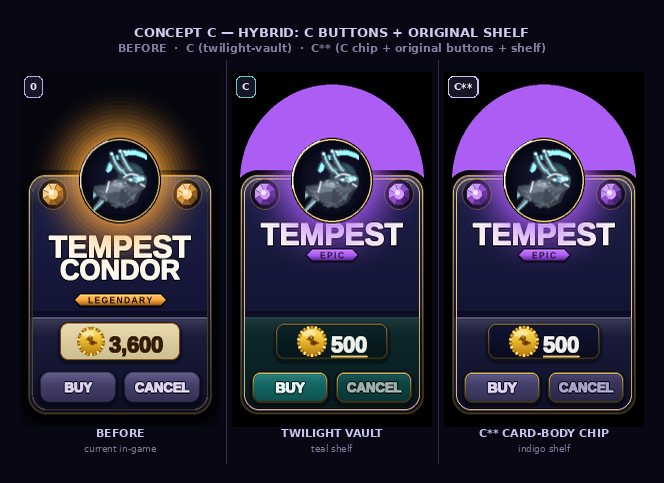
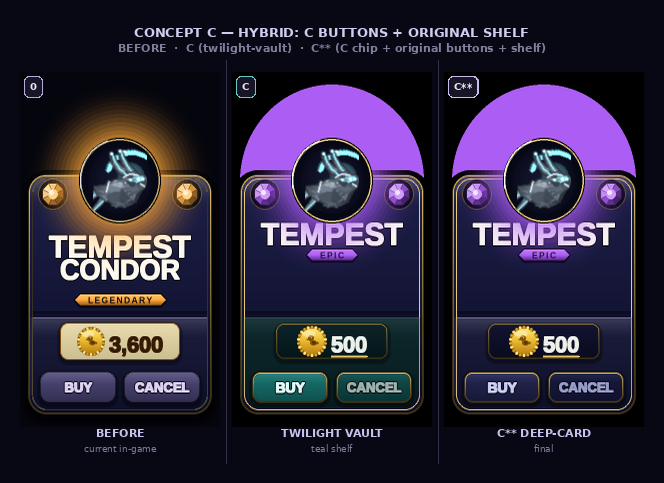
feat: store_confirm_shelf_v3 C** final — deep-card button fills
BUY (38,40,84)→(22,24,56), CANCEL (26,28,64)→(14,16,44): deep blue-indigo
matching the card body hue. Chip face and shelf unchanged.

Claude-Session: https://claude.ai/code/session_01DaGYw11VdAubog2VGiiucC

Changed region(s): [[0.6928, 0.7764, 0.9337, 0.8385], [0.7229, 0.8696, 0.9036, 0.9317]]

diff --git a/tools/_store_confirm_shelf_v3_c_orig_bg.py b/tools/_store_confirm_shelf_v3_c_orig_bg.py
@@ -75,13 +75,12 @@ def _btn(big, btn_rect, rad, label, font_px, locked=False, is_cancel=False):
         lab_col = (150, 152, 162)
         sheen   = 10
     elif is_cancel:
-        # 25% darker than BUY indigo for visual hierarchy
-        stops   = [(0.0, (68, 62, 104)), (1.0, (40, 36, 70))]
-        lab_col = (168, 162, 200)
+        stops   = [(0.0, (26, 28, 64)), (1.0, (14, 16, 44))]
+        lab_col = (150, 155, 200)
         sheen   = 14
     else:
-        stops   = [(0.0, (84, 78, 126)), (1.0, (50, 46, 82))]
-        lab_col = (220, 210, 240)
+        stops   = [(0.0, (38, 40, 84)), (1.0, (22, 24, 56))]
+        lab_col = (200, 205, 240)
         sheen   = 22
 
     sc.drop_shadow(big, btn_rect, rad, blur=m(3), alpha=100, dy=m(2))
@@ -285,7 +284,7 @@ except Exception:
     fnt_hdr = fnt_badge = ImageFont.load_default()
 
 draw.text((CANVAS_W // 2, MARGIN + HDR_H // 2),
-          "C** card-body chip  |  AFFORDABLE / UNAFFORDABLE",
+          "C** deep-card buttons + card-body chip  |  AFFORDABLE / UNAFFORDABLE",
           fill=(180, 200, 240), font=fnt_hdr, anchor="mm")
 
 panels_y = MARGIN + HDR_H + GAP_HDR
@@ -308,7 +307,7 @@ for px, affordable, panel in panels_data:
     draw.text((bx + 4, by + 8), "C**", fill=(230, 225, 245), font=fnt_badge, anchor="lm")
 
 OUT = os.path.join(os.path.dirname(__file__), "..",
-                   "docs", "store_confirm_shelf_v3", "c-orig-bg", "round_3.png")
+                   "docs", "store_confirm_shelf_v3", "c-orig-bg", "round_4.png")
 OUT = os.path.abspath(OUT)
 canvas.save(OUT)
 print(f"Saved {OUT}  ({CANVAS_W}x{CANVAS_H})")

diff --git a/tools/_store_confirm_shelf_v3_c_orig_bg_compare.py b/tools/_store_confirm_shelf_v3_c_orig_bg_compare.py
@@ -40,7 +40,7 @@ def _crop_affordable(slug):
 
 
 img_c  = _crop_affordable("twilight-vault")
-img_c2 = Image.open(os.path.join(BASE, "c-orig-bg", "round_3.png")).crop((18, 54, 218, 394))
+img_c2 = Image.open(os.path.join(BASE, "c-orig-bg", "round_4.png")).crop((18, 54, 218, 394))
 
 PANEL_W, PANEL_H = 200, 355
 MARGIN = 20; GAP = 12; HDR_H = 40; FOOT_H = 36
@@ -88,7 +88,7 @@ def _panel(img, col_i, badge, line1, line2, badge_col=(200, 190, 240)):
 
 _panel(img_before, 0, "0",  "BEFORE",           "current in-game", (180, 170, 220))
 _panel(img_c,      1, "C",  "TWILIGHT VAULT",    "teal shelf",      (100, 200, 200))
-_panel(img_c2,     2, "C**","C** CARD-BODY CHIP","indigo shelf",    (200, 190, 240))
+_panel(img_c2,     2, "C**","C** DEEP-CARD",     "final",           (200, 190, 240))
 
 # Separator lines between panels
 for i in range(1, N):
